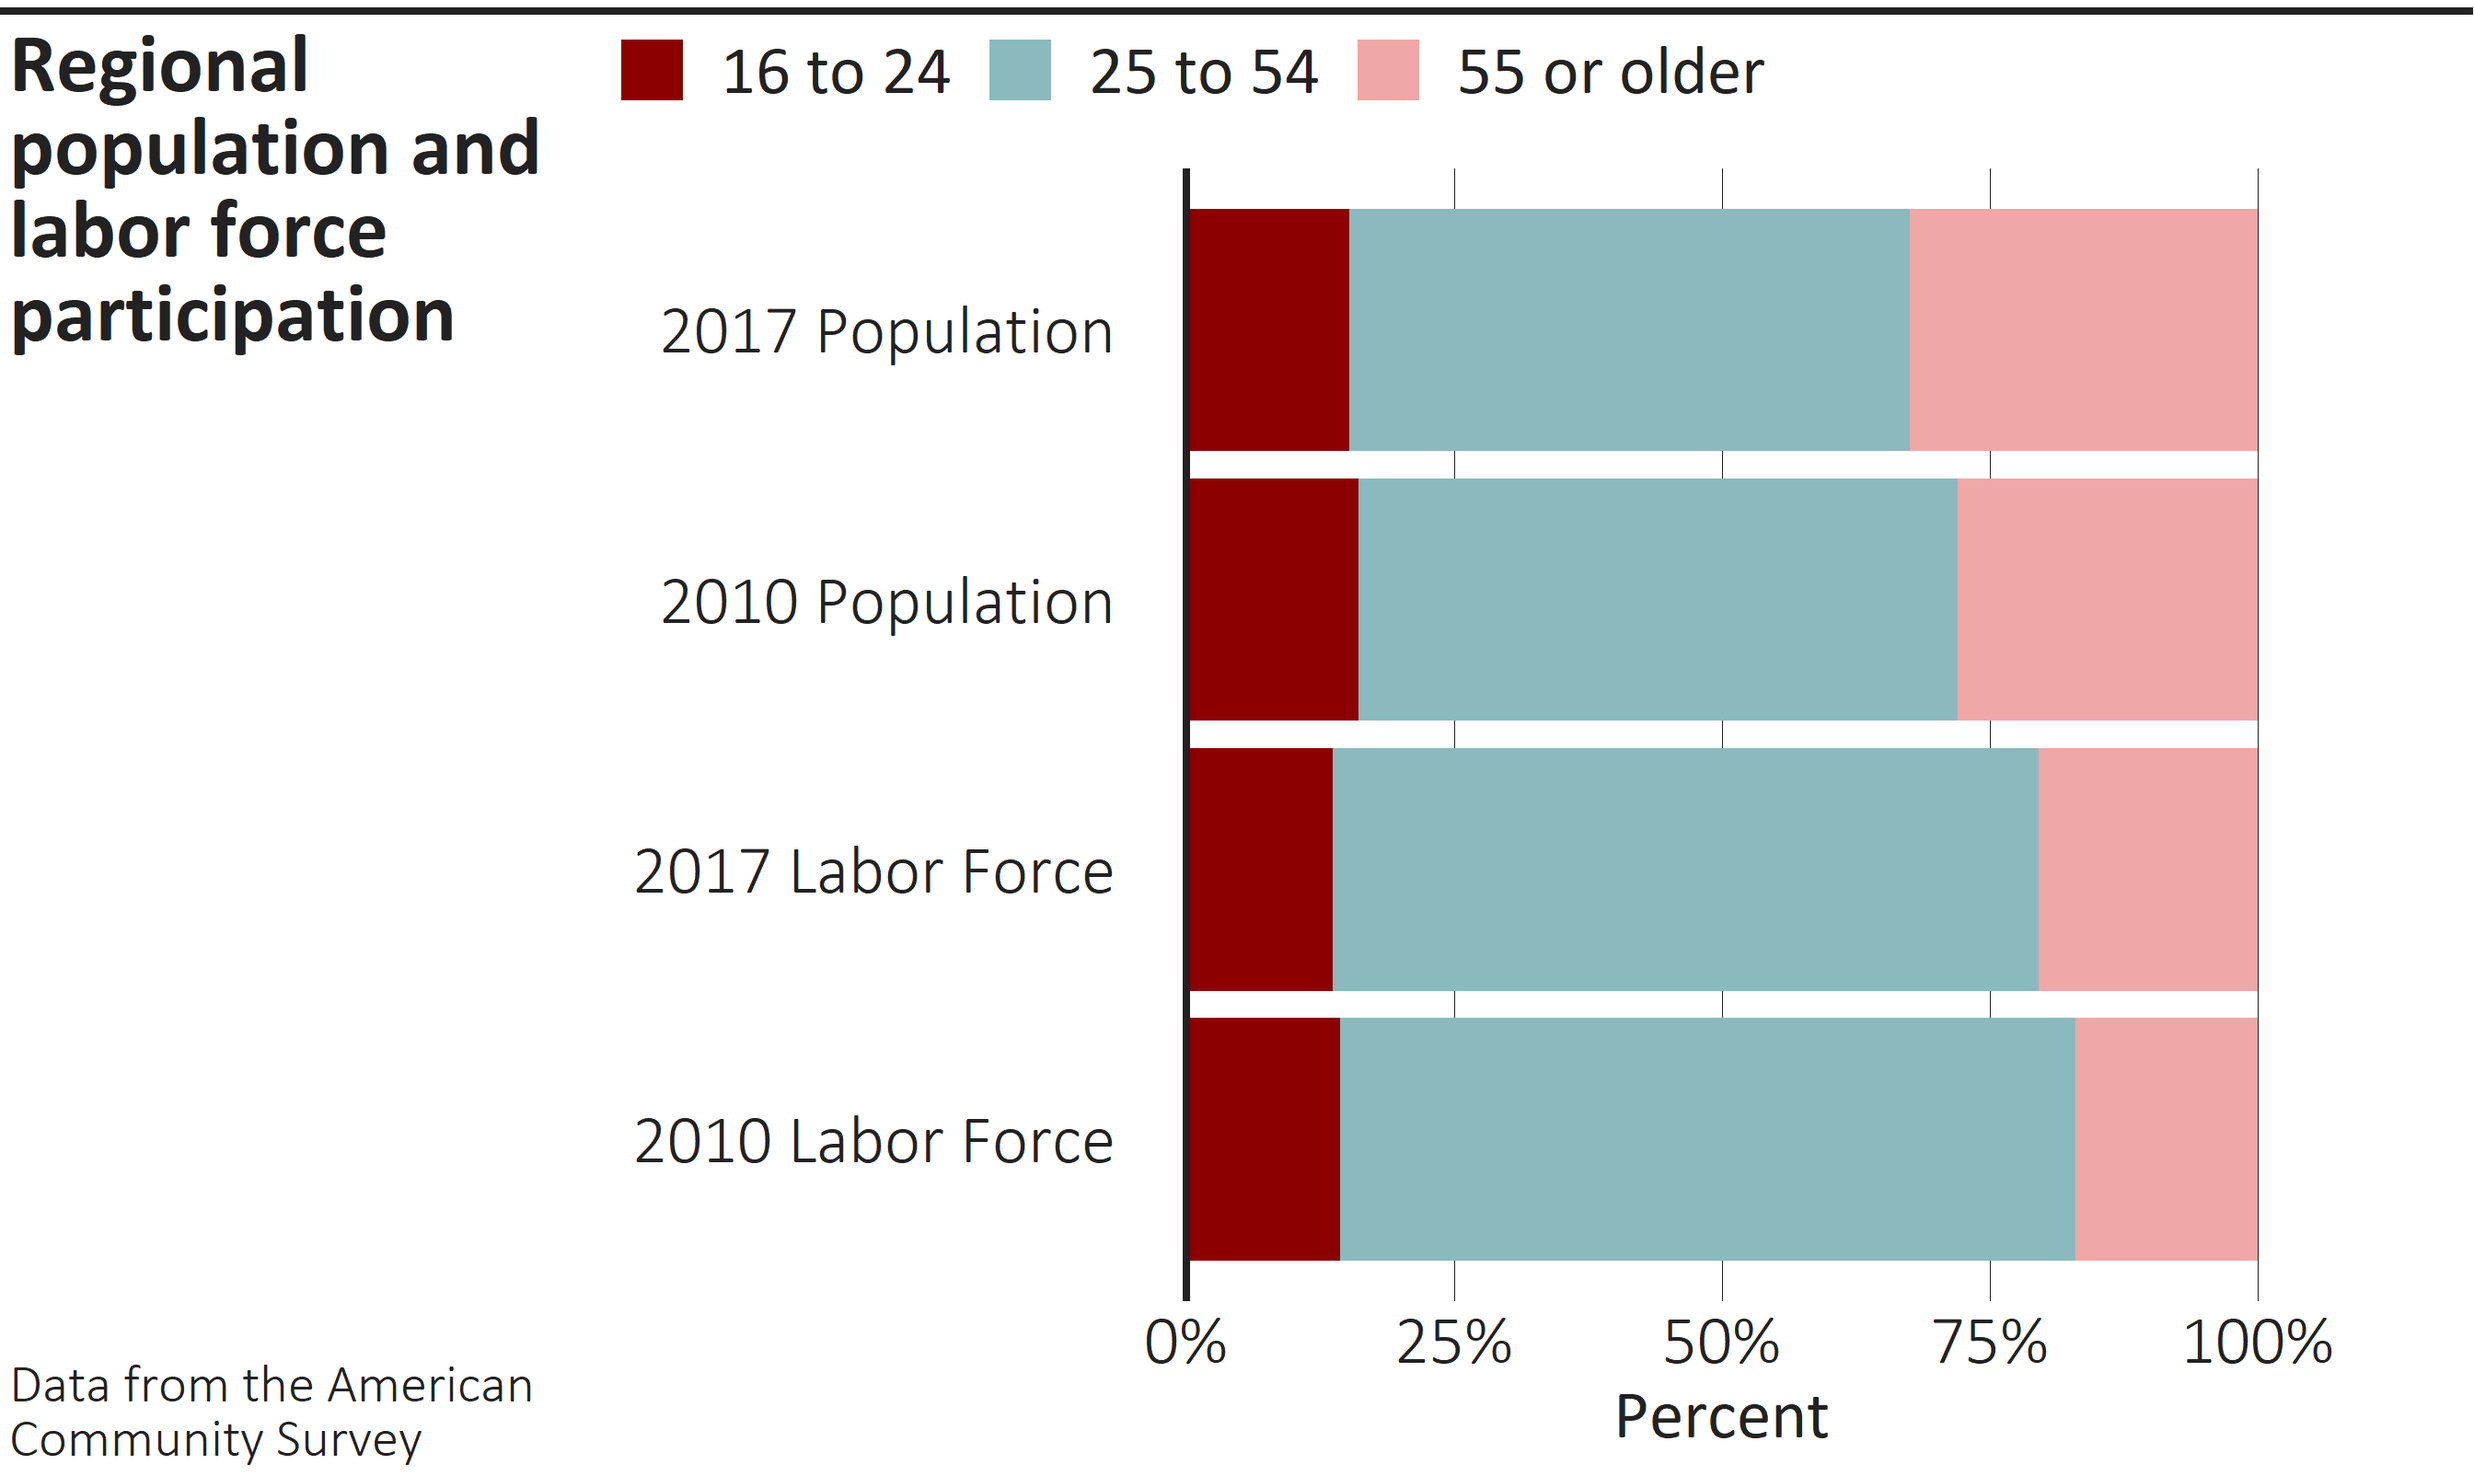
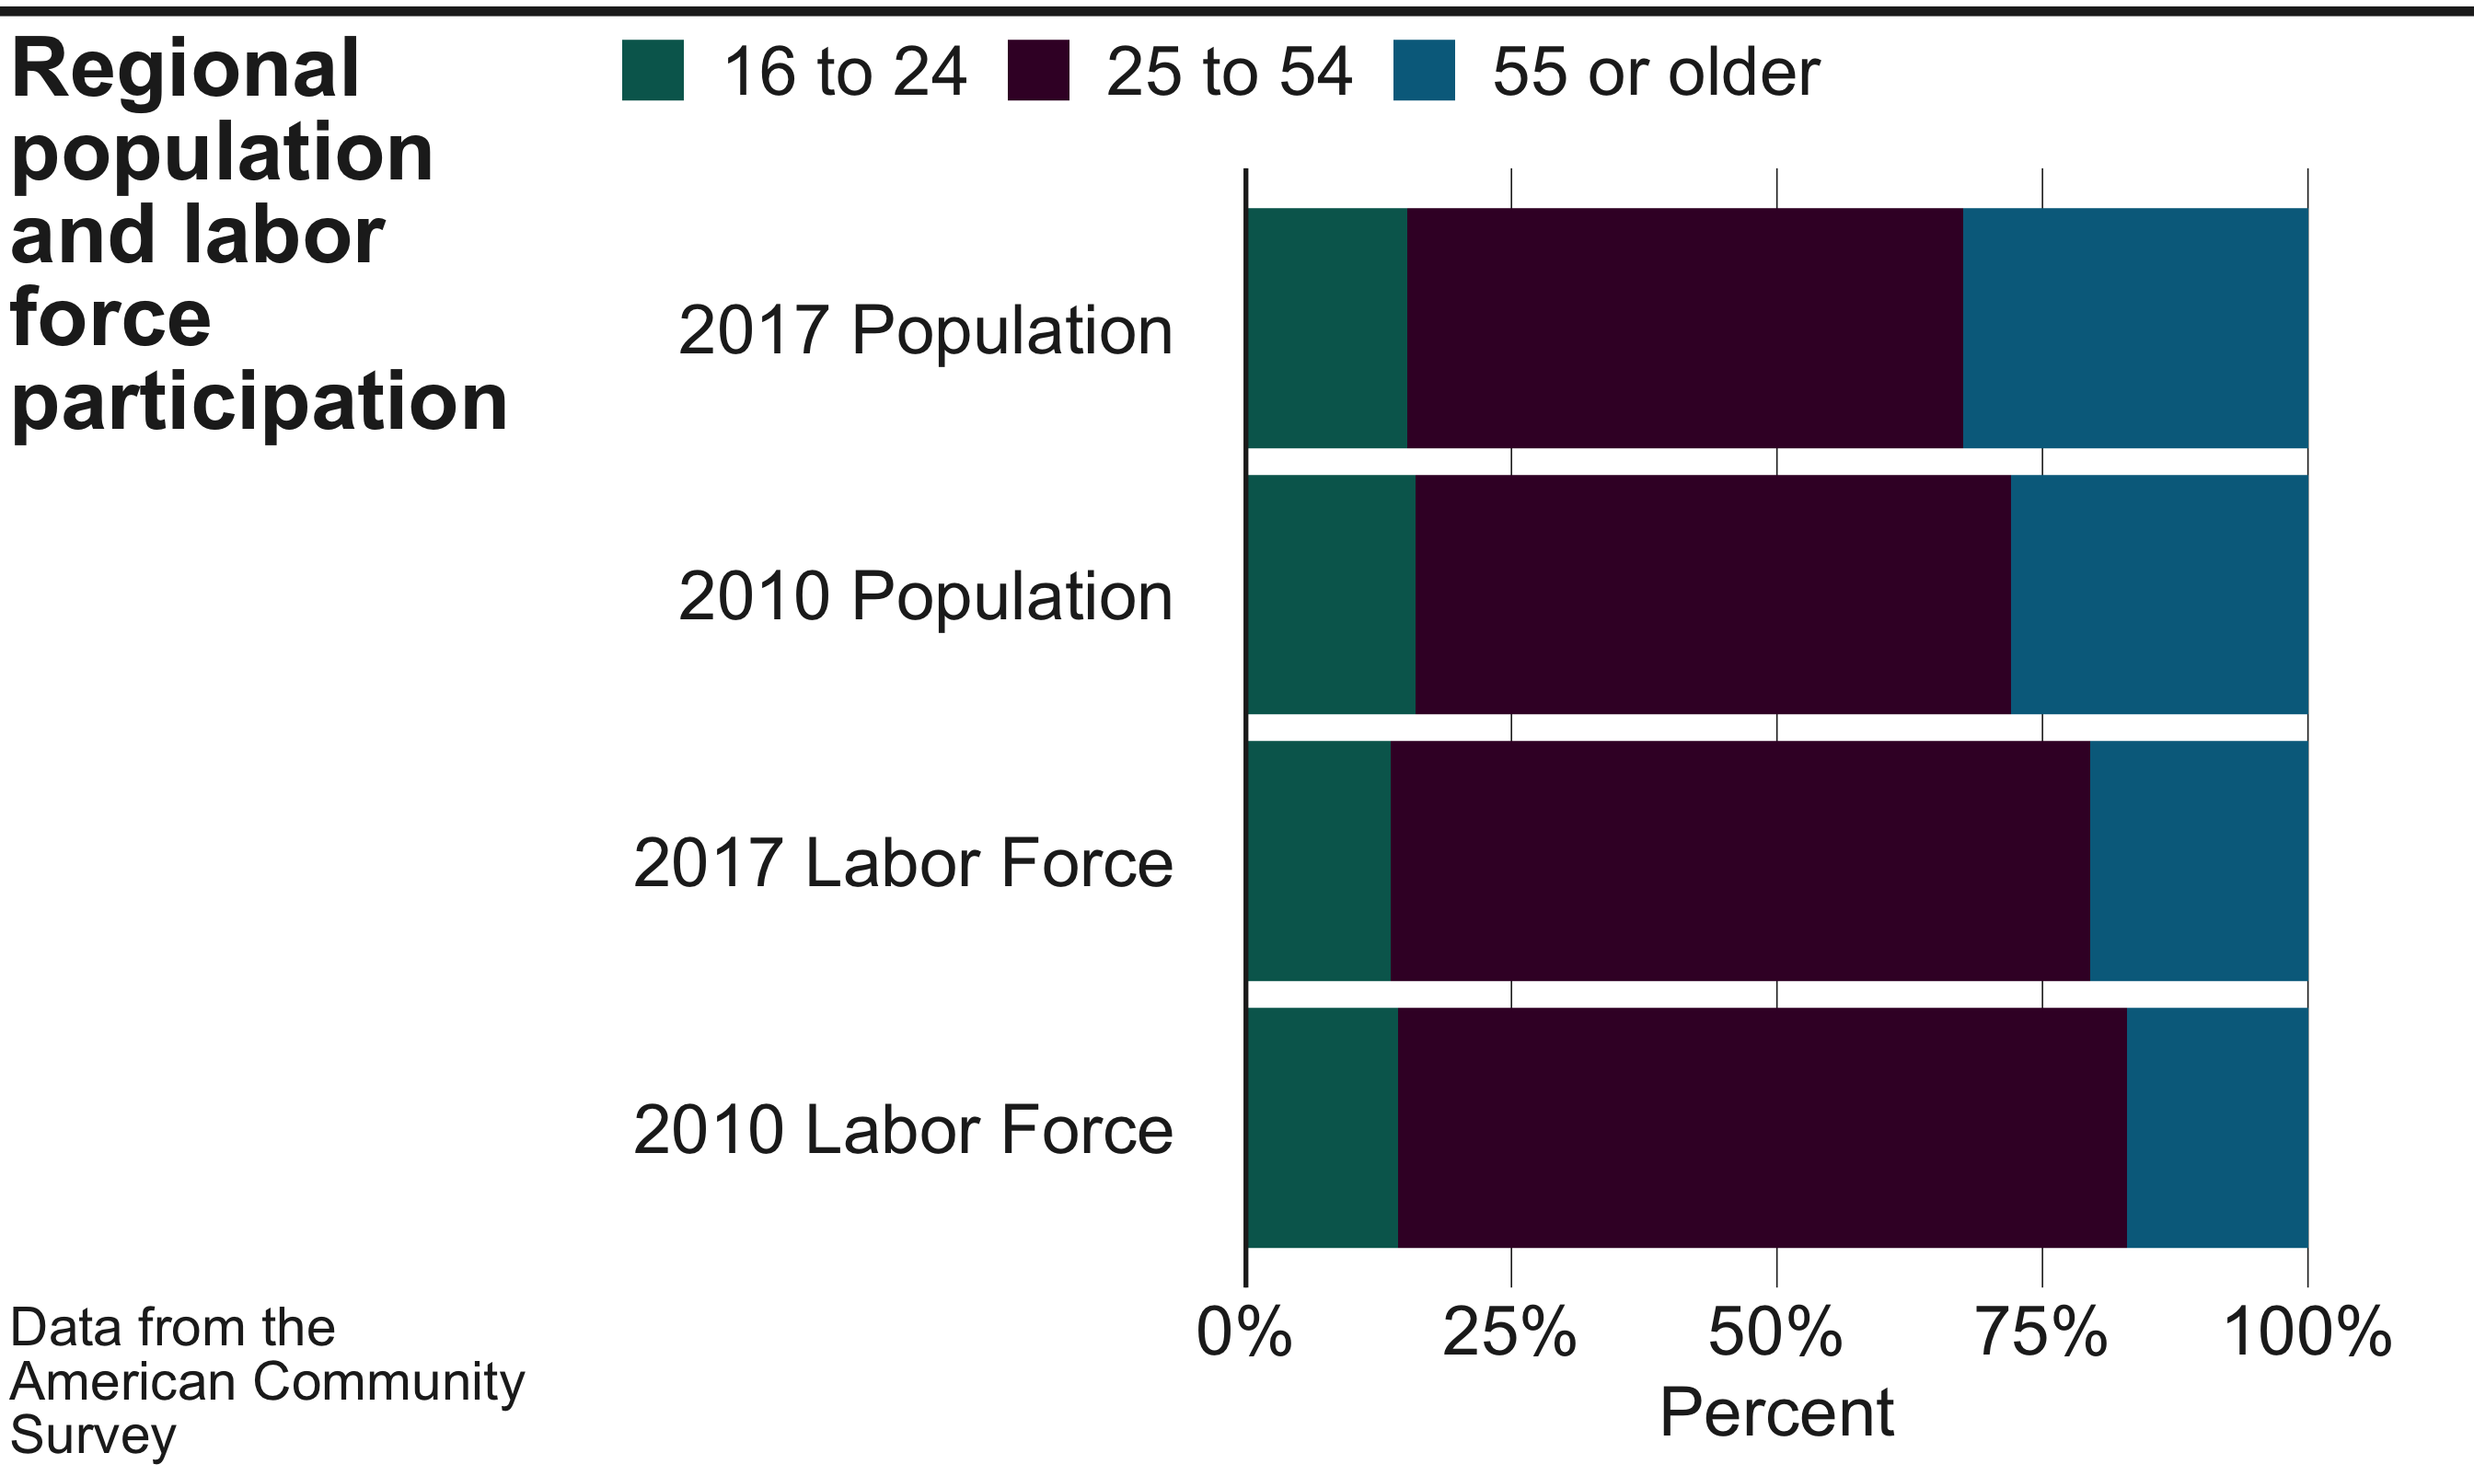
Modified readme

diff --git a/README.md b/README.md
@@ -29,11 +29,13 @@ The cmapplot package contains a few key components:
 
 Run the following to install or update cmapplot:
 
-    ## Install current version from GitHub
-    devtools::install_github("CMAP-REPOS/cmapplot", build_vignettes=TRUE)
+``` r
+## Install current version from GitHub
+devtools::install_github("CMAP-REPOS/cmapplot", build_vignettes=TRUE)
 
-    ## Then load the package as you would any other
-    library(cmapplot)
+## Then load the package as you would any other
+library(cmapplot)
+```
 
 **Important note:** cmapplot works best when installed on a Windows
 computer with the Whitney family of fonts installed (specifically the
@@ -52,21 +54,23 @@ installed.*
 
 The function `theme_cmap()` returns a complete ggplot2 theme that can be
 added to a ggplot code block (similar to `ggplot2::theme_minimal()` or
-`ggplot2::theme_bw`). Additionally, `theme_cmap()` accepts a variety of
-arguments to additionally customize the theme output. CMAP color
+`ggplot2::theme_bw()`). Additionally, `theme_cmap()` accepts a variety
+of arguments to additionally customize the theme output. CMAP color
 functions apply colors from the CMAP color palette to the plot.
 
-    ggplot(data = pop_and_laborforce_by_age, 
-           aes(x = value,
-               y = interaction(year, variable, sep = " "),
-               fill = age)) +
-      geom_col(position = position_stack(reverse = TRUE)) +
-      scale_x_continuous(labels = scales::percent) +
-      theme_cmap(xlab = "Percent",
-                 gridlines = "v",
-                 vline = 0) +
-      cmap_fill_discrete(palette = "mobility")
-    #> 'Whitney' font family not found. Using a substitute...
+``` r
+ggplot(data = pop_and_laborforce_by_age, 
+       aes(x = value,
+           y = interaction(year, variable, sep = " "),
+           fill = age)) +
+  geom_col(position = position_stack(reverse = TRUE)) +
+  scale_x_continuous(labels = scales::percent) +
+  theme_cmap(xlab = "Percent",
+             gridlines = "v",
+             vline = 0) +
+  cmap_fill_discrete(palette = "environment")
+#> 'Whitney' font family not found. Using a substitute...
+```
 
 <img src="man/figures/README-theme-1.png" width="672" style="display: block; margin: auto;" />
 
@@ -77,8 +81,10 @@ CMAP design standards. It provides a variety of customization options
 via arguments, and allows for in-R viewing and/or exporting in various
 formats.
 
-    finalize_plot(title = "Regional population and labor force participation",
-                  caption = "Data from the American Community Survey",
-                  width = 7, height = 4.25)
+``` r
+finalize_plot(title = "Regional population and labor force participation",
+              caption = "Data from the American Community Survey",
+              width = 7, height = 4.25)
+```
 
 <img src="man/figures/README-finalize-1.png" width="672" style="display: block; margin: auto;" />
